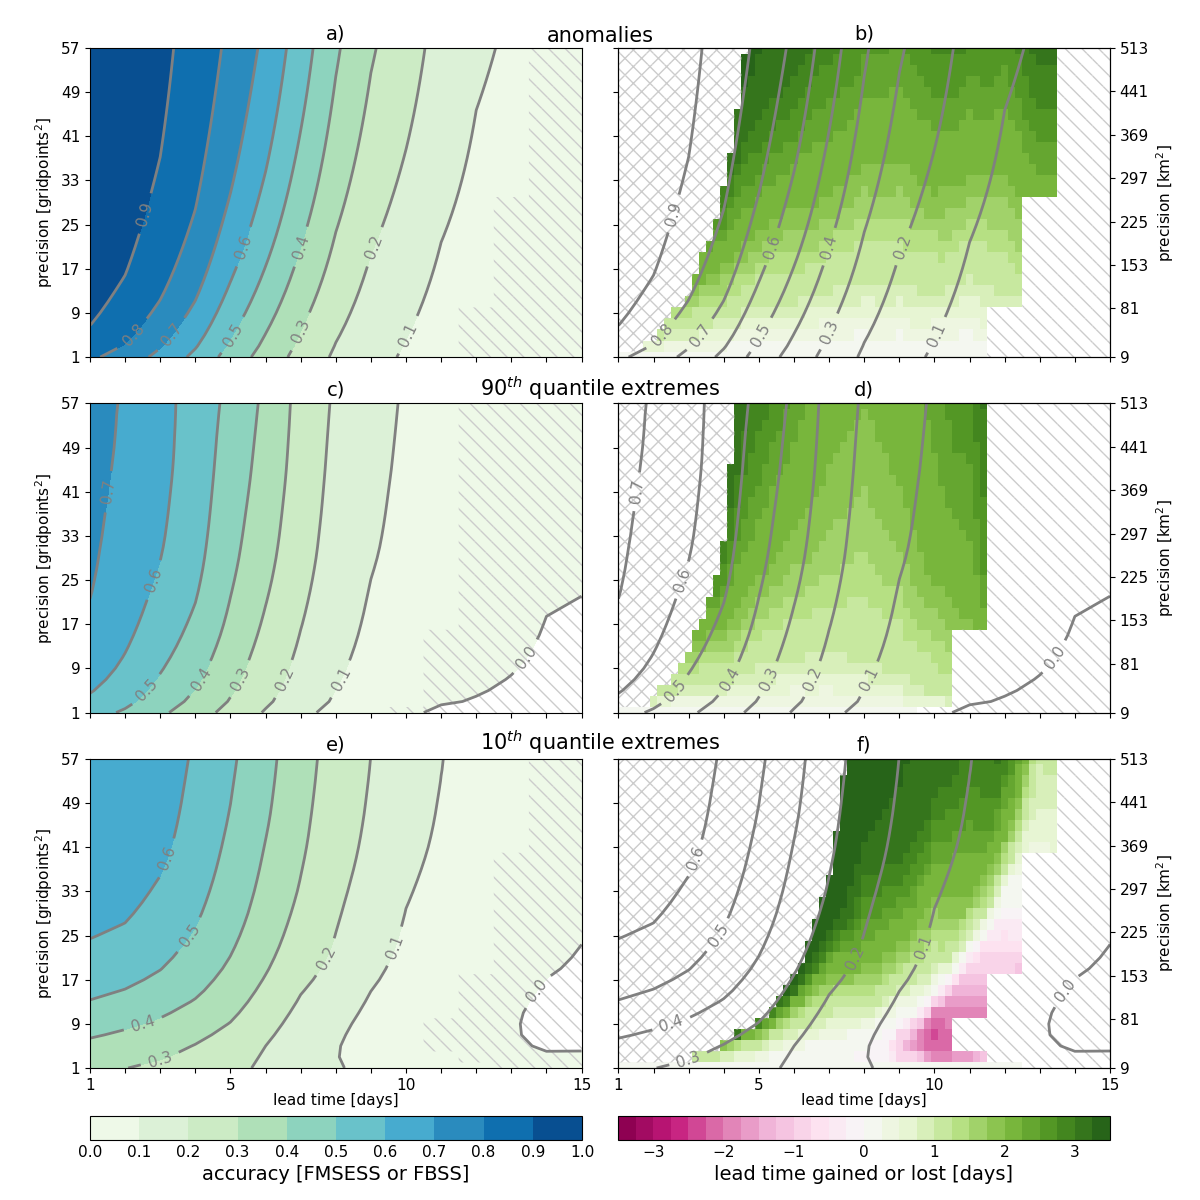
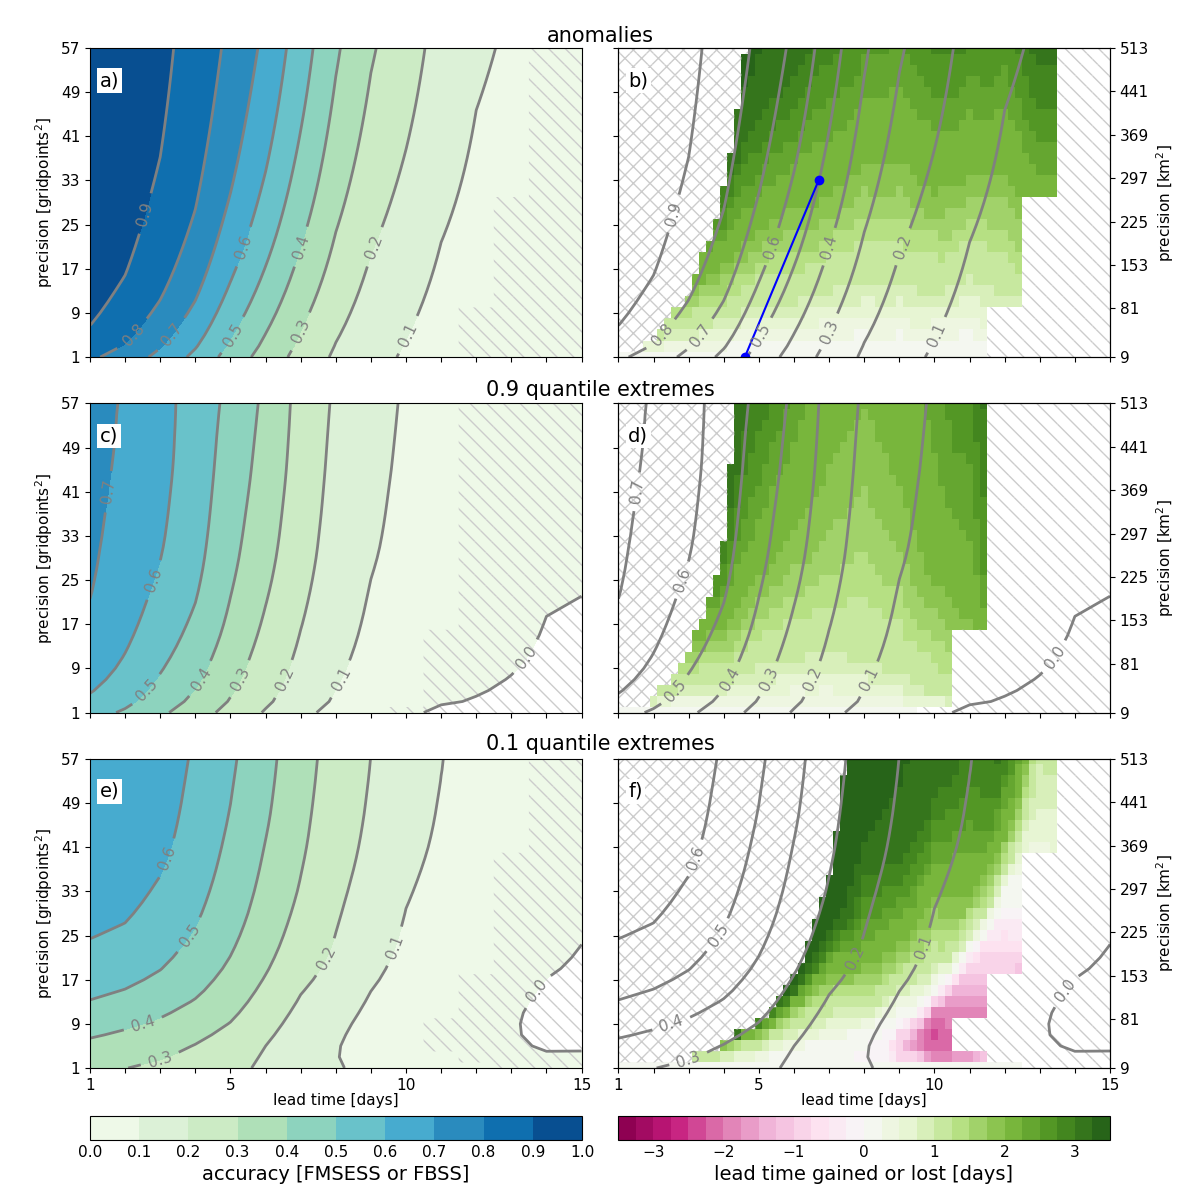
update

diff --git a/code/plot/plot-fig-01.py b/code/plot/plot-fig-01.py
@@ -28,7 +28,7 @@ def setup_subplot(flag, ax, ds, title_text, clevs_score, clevs_ltg, cmap_score, 
         ax.set_yticklabels(['1', '9', '17', '25', '33', '41', '49', '57'], fontsize=fontsize)
         ax.set_ylabel(r'precision [gridpoints$^2$]', fontsize=fontsize)
 
-    if (flag == 1) or (flag == 3) or (flag == 5):
+    if (flag == 1) or (flag == 3) or (flag == 5) :
 
         p = ax.pcolormesh(time_interp, box_size, ds['lead_time_gained'], vmin=clevs_ltg[0], vmax=clevs_ltg[-1], cmap=cmap_ltg,edgecolor='none',shading='auto')
         ax.pcolor(time, box_size, ds['significance'], hatch='\\\\', cmap=mpl.colors.ListedColormap(['none']), edgecolor=[0.8,0.8,0.8], lw=0)
@@ -50,8 +50,8 @@ def setup_subplot(flag, ax, ds, title_text, clevs_score, clevs_ltg, cmap_score, 
     ax.set_xticklabels(['1', '', '', '', '5', '', '', '', '', '10', '', '', '', '', '15'], fontsize=fontsize)
     
     ax.set_ylim([box_size[0], box_size[-2]])
-    ax.set_title(title_text, fontsize=fontsize + 3)
-    
+    #ax.set_title(title_text, fontsize=fontsize + 3,y=1.0, pad=-1, bbox={'facecolor': 'white', 'edgecolor': 'none', 'pad': 2})
+    ax.set_title(title_text, fontsize=fontsize + 3,loc='left', ha='left', y=0.85, x=0.02, bbox={'facecolor': 'white', 'edgecolor': 'none', 'pad': 2})
     return p
 
 
@@ -83,8 +83,8 @@ fig,ax      = plt.subplots(nrows=3,ncols=2,sharey='row',sharex='col',figsize=(fi
 ax          = ax.ravel()
 
 fig.text(0.5, 0.965, 'anomalies',horizontalalignment='center',color='k',fontsize=fontsize+4)
-fig.text(0.5, 0.67, '90$^{th}$ quantile extremes',horizontalalignment='center',color='k',fontsize=fontsize+4)
-fig.text(0.5, 0.375, '10$^{th}$ quantile extremes',horizontalalignment='center',color='k',fontsize=fontsize+4)
+fig.text(0.5, 0.67, '0.9 quantile extremes',horizontalalignment='center',color='k',fontsize=fontsize+4)
+fig.text(0.5, 0.375, '0.1 quantile extremes',horizontalalignment='center',color='k',fontsize=fontsize+4)
 
 setup_subplot(0, ax[0], ds1, 'a)', clevs_score, clevs_ltg, cmap_score, cmap_ltg, fontsize)
 
@@ -93,6 +93,8 @@ setup_subplot(2, ax[2], ds2, 'c)', clevs_score, clevs_ltg, cmap_score, cmap_ltg,
 p1 = setup_subplot(4, ax[4], ds3, 'e)', clevs_score, clevs_ltg, cmap_score, cmap_ltg, fontsize)
 
 setup_subplot(1, ax[1], ds1, 'b)', clevs_score,clevs_ltg, cmap_score, cmap_ltg, fontsize)
+
+ax[1].plot([4.6,6.7], [1,33], 'bo-')
 
 setup_subplot(3, ax[3], ds2, 'd)', clevs_score,clevs_ltg, cmap_score, cmap_ltg, fontsize)
 

diff --git a/code/student/download-s2s-ecmwf-6hourly-forecast.py b/code/student/download-s2s-ecmwf-6hourly-forecast.py
@@ -23,8 +23,8 @@ from forsikring                  import config,misc,s2s
 
 # input -----------------------------------
 product             = 'forecast' # forecast/vr_forecast
-first_forecast_date = '20220228' # first initialization date of forecast (either a monday or thursday)
-number_forecast     = 88        # number of forecast initializations   
+first_forecast_date = '20230102' # first initialization date of forecast (either a monday or thursday)
+number_forecast     = 104        # number of forecast initializations   
 grid                = '0.25/0.25' # degree lat/lon resolution
 domain              = 'southern_norway'
 variables           = ['tp','t2m','sd']

diff --git a/code/download/download-s2s-ecmwf-6hourly-forecast.py b/code/download/download-s2s-ecmwf-6hourly-forecast.py
@@ -88,8 +88,8 @@ dic = {
 }    
 
 # get all dates for monday and thursday forecast initializations
-#forecast_dates = s2s.get_forecast_dates(first_forecast_date,number_forecast,'annual')
-forecast_dates = pd.date_range(first_forecast_date, periods=number_forecast, freq="D")
+forecast_dates = s2s.get_forecast_dates(first_forecast_date,number_forecast,'annual')
+#forecast_dates = pd.date_range(first_forecast_date, periods=number_forecast, freq="D")
 print(forecast_dates)
 
 # populate dictionary some more and download eachforcast one-by-one
